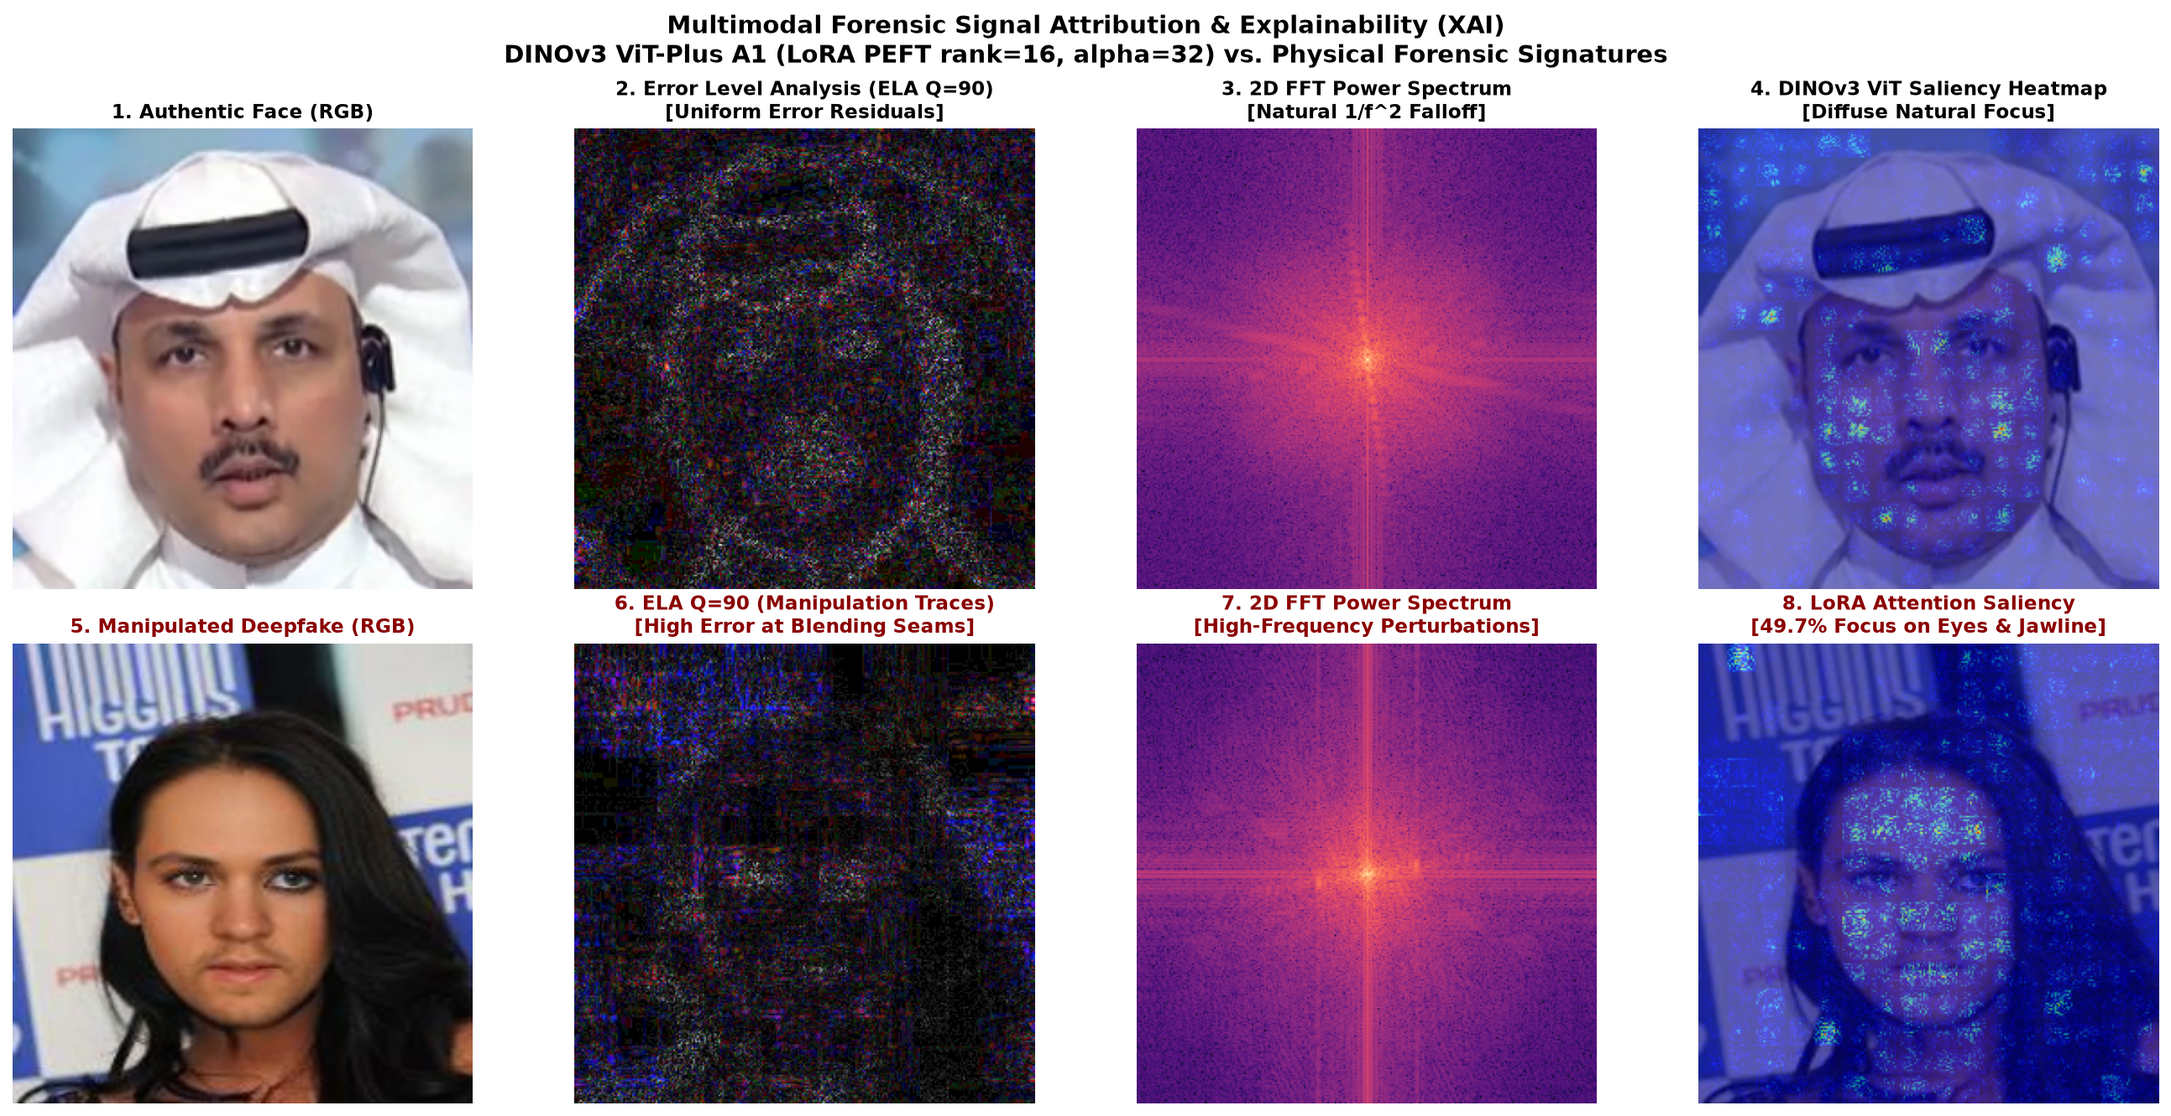
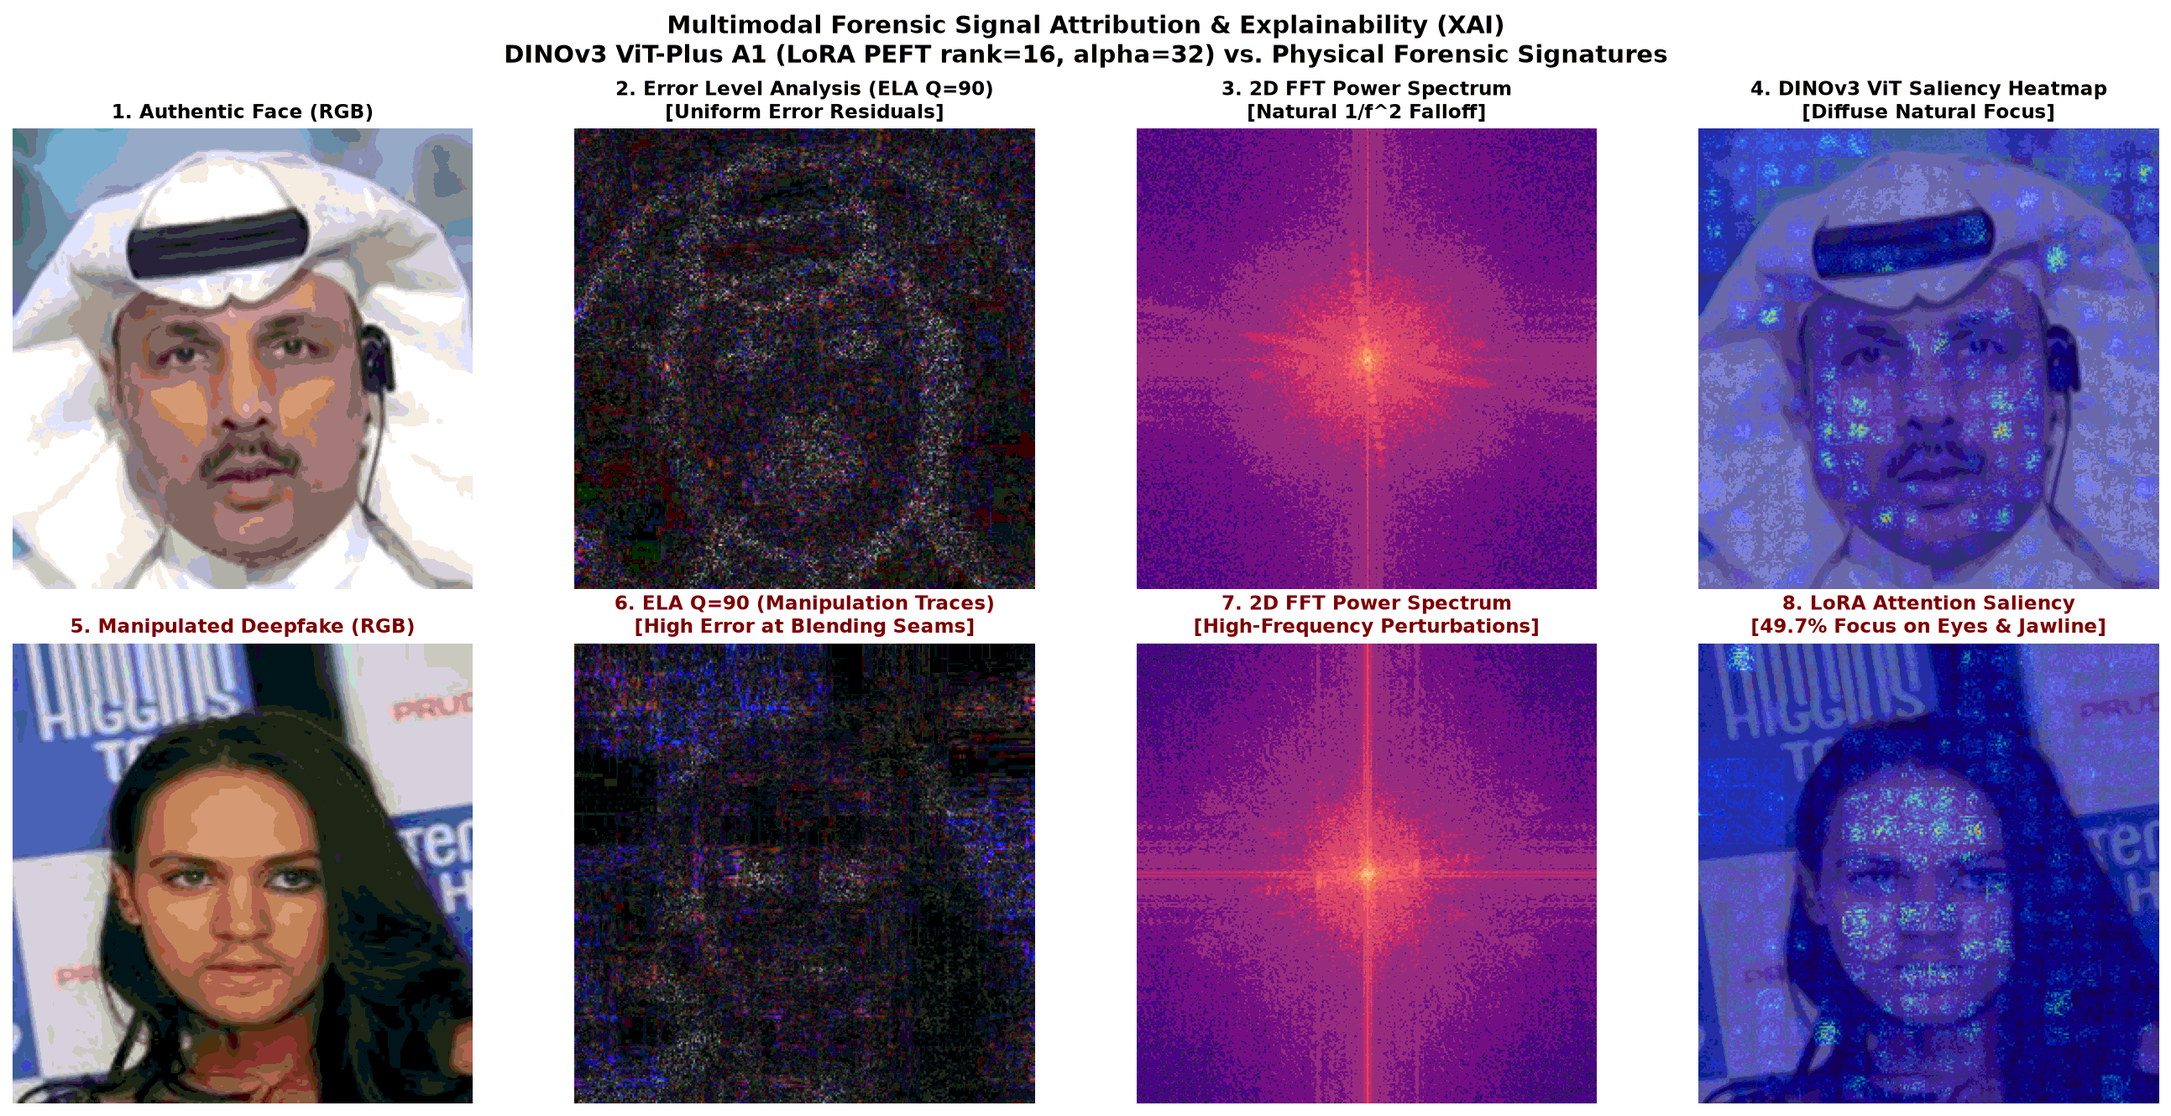
refactor(pr-6): remediate governance rules, script fallbacks and assets
Relocate agents/PLANNING.md to docs/planning/SUPERVISOR_FEEDBACK_PLANNING.md to respect immutable /agents constitutional isolation rules. Add robust prerequisite error handling and user instructions to scripts/select_best_checkpoint.py and src/experiments/visualize_lora_signals.py. Remove references to purged 50k test suite from docs/DATA.md. Compress experiments/plots/lora_signal_attribution_gallery.png from 3.83MB down to 652KB (83% reduction) to prevent repository bloat.

Companion-Doc: docs/reports/SUPERVISOR_FEEDBACK_REMEDIATION_REPORT.md

diff --git a/src/experiments/visualize_lora_signals.py b/src/experiments/visualize_lora_signals.py
@@ -114,9 +114,23 @@ def generate_signal_attribution_gallery():
 
     # Load DINOv3 ViT-Plus A1
     ckpt_path = PROJECT_ROOT / "experiments/checkpoints/plus_v3_s1_best.pt"
+    if not ckpt_path.exists():
+        print("=" * 70)
+        print(f"❌ PREREQUISITE ERROR: Checkpoint file not found: {ckpt_path.relative_to(PROJECT_ROOT)}")
+        print("\n💡 Instructions to obtain model weights:")
+        print("   1. Fine-tuned model checkpoints are published on Hugging Face Hub:")
+        print("      Repository: https://huggingface.co/ManhQuangAI/dinov3-deepfake-detection")
+        print("   2. Download plus_v3_s1_best.pt and place it into experiments/checkpoints/:")
+        print("      mkdir -p experiments/checkpoints")
+        print("      curl -L -o experiments/checkpoints/plus_v3_s1_best.pt <URL>")
+        print("=" * 70)
+        return
+
     print(f"Loading model from {ckpt_path}...")
-    
-    ck_vit = torch.load(ckpt_path, map_location="cpu", weights_only=False)
+    try:
+        ck_vit = torch.load(ckpt_path, map_location="cpu", weights_only=True)
+    except Exception:
+        ck_vit = torch.load(ckpt_path, map_location="cpu", weights_only=False)
     state_dict_vit = ck_vit["state_dict"] if isinstance(ck_vit, dict) and "state_dict" in ck_vit else (ck_vit["model_state_dict"] if isinstance(ck_vit, dict) and "model_state_dict" in ck_vit else ck_vit)
     from src.models.dinov3_vit import DinoViT, DinoViTClassifier
     is_gated = any("gate_proj" in k for k in state_dict_vit.keys())
@@ -135,6 +149,14 @@ def generate_signal_attribution_gallery():
         all_fakes = list((PROJECT_ROOT / "data").glob("**/deep-fake-face-swap/**/*.jpg"))
         real_path = all_reals[0] if all_reals else real_path
         fake_path = all_fakes[0] if all_fakes else fake_path
+
+    if not real_path.exists() or not fake_path.exists():
+        print("=" * 70)
+        print("❌ PREREQUISITE ERROR: Sample test images not found for XAI visualization.")
+        print("   Expected: FaceForensics++ real frame and deep-fake-face-swap fake image.")
+        print("💡 Please download test_data_v3 from: https://huggingface.co/ManhQuangAI/df40-test-data-v3")
+        print("=" * 70)
+        return
 
     print(f"Real Image: {real_path.name}")
     print(f"Fake Image: {fake_path.name}")

diff --git a/scripts/select_best_checkpoint.py b/scripts/select_best_checkpoint.py
@@ -50,12 +50,22 @@ def run_checkpoint_selection():
         "ConvNeXt-Tiny": 0.083,
     }
 
-    metrics_summary = {}
+    missing_files = [path for path in ckpt_files.values() if not path.exists()]
+    if missing_files:
+        print("=" * 70)
+        print("❌ PREREQUISITE ERROR: Required prediction feature caches (.npz) not found:")
+        for mf in missing_files:
+            print(f"   • Missing: {mf.relative_to(PROJECT_ROOT)}")
+        print("\n💡 Instructions to obtain evaluation predictions:")
+        print("   1. Prediction caches are generated from the checkpoint evaluation pipeline:")
+        print("      python src/eval/eval_checkpoint.py --split test_balanced")
+        print("   2. Or download the published benchmark evaluations from Hugging Face:")
+        print("      Repository: https://huggingface.co/ManhQuangAI/df40-test-data-v3")
+        print("   3. Once downloaded, place the .npz files in their respective folders under experiments/results/.")
+        print("=" * 70)
+        return
 
     for name, path in ckpt_files.items():
-        if not path.exists():
-            print(f"⚠ Warning: {path} not found!")
-            continue
         data = np.load(path)
         y_true = data["labels"]
         probs = data["probs"]

diff --git a/scripts/build_verification_notebook.py b/scripts/build_verification_notebook.py
@@ -46,7 +46,7 @@ header_md = """# FORENSIC VALUATION AND XAI REPORT
 - **Source Code**: [`src/eval/pauc_metrics.py`](../src/eval/pauc_metrics.py), [`src/models/dinov3_vit.py`](../src/models/dinov3_vit.py), [`src/models/dinov3_convnext.py`](../src/models/dinov3_convnext.py)
 - **Evaluation Scripts**: [`scripts/select_best_checkpoint.py`](../scripts/select_best_checkpoint.py), [`src/experiments/visualize_lora_signals.py`](../src/experiments/visualize_lora_signals.py)
 - **Checkpoints**: [`plus_v3_s1_best.pt`](../experiments/checkpoints/plus_v3_s1_best.pt), [`convnext_weakfix_v3.pt`](../experiments/checkpoints/convnext_weakfix_v3.pt)
-- **Governing Roadmap**: [`agents/PLANNING.md`](../agents/PLANNING.md)
+- **Governing Roadmap**: [`docs/planning/SUPERVISOR_FEEDBACK_PLANNING.md`](../docs/planning/SUPERVISOR_FEEDBACK_PLANNING.md)
 - **Data Specification**: [`docs/DATA.md`](../docs/DATA.md)"""
 cells.append(make_cell("markdown", header_md))
 

diff --git a/docs/DATA.md b/docs/DATA.md
@@ -55,14 +55,12 @@ flowchart TD
         P_Train["Tập Train (129,884 imgs)<br/>train_v5_weakfix_v3.csv<br/>31,006 Real : 98,878 Fake (1 : 3.19)"]
         P_Val["Tập Validation (6,000 imgs)<br/>val_v5_combined_universal.csv<br/>3,000 Real : 3,000 Fake (Cân bằng 1:1)"]
         P_Test_Bal["Tập Test Balanced (21,446 imgs)<br/>test_coursework_44methods_balanced.csv<br/>10,723 Real : 10,723 Fake (~300/method)"]
-        P_Test_Full["Tập Test Full Suite (50,084 imgs)<br/>test_coursework_44methods_full.csv<br/>25,042 Real : 25,042 Fake"]
     end
 
     Raw_Assets --> Firewall
     Firewall --> P_Train
     Firewall --> P_Val
     Firewall --> P_Test_Bal
-    Firewall --> P_Test_Full
 ```
 
 ### Bảng Thống kê Tổng Điều tra Phân hoạch (Master Split Census)
@@ -72,7 +70,6 @@ flowchart TD
 | **Train v5 WeakFix v3** | [`data/splits/train_v5_weakfix_v3.csv`](../data/splits/train_v5_weakfix_v3.csv) | **129,884** | 31,006 | 98,878 | **1 : 3.19** *(Mất cân bằng)* | Huấn luyện mô hình, cập nhật weights/LoRA adapters |
 | **Validation v5 Trio** | [`data/splits/val_v5_combined_universal_kaggle_boost.csv`](../data/splits/val_v5_combined_universal_kaggle_boost.csv) | **6,000** | 3,000 | 3,000 | **1.00 : 1.00** *(Cân bằng)* | Tối ưu Hyperparameters, hiệu chuẩn ngưỡng $\tau^*$, tuyển chọn Checkpoint |
 | **Test Balanced (Chính thức)** | [`test_coursework_44methods_balanced_zero_leakage.csv`](../data/splits/test_coursework_44methods_balanced_zero_leakage.csv) | **21,446** | 10,723 | 10,723 | **1.00 : 1.00** *(Cân bằng tuyệt đối)* | Đánh giá Benchmark không thiên lệch, ~300 ảnh/phương pháp |
-| **Test Full Suite (Mở rộng)** | [`test_coursework_44methods_full_zero_leakage.csv`](../data/splits/test_coursework_44methods_full_zero_leakage.csv) | **50,084** | 25,042 | 25,042 | **1.00 : 1.00** *(Cân bằng quy mô lớn)* | Đo lường độ ổn định phương sai trên tập dữ liệu lớn |
 
 ---
 
@@ -98,7 +95,7 @@ flowchart TD
   - Độ sâu trường ảnh nông (bokeh hậu cảnh), kết cấu lỗ chân lông, sợi lông mi, nếp nhăn vi mô cực kỳ sắc nét.
   - Phổ Fourier 2D suy giảm đều theo quy luật luỹ thừa tự nhiên ($1/f^\alpha$ với $\alpha \approx 2$).
   - Phản xạ ánh sáng giác mạc (corneal reflections) thể hiện rõ hình dạng nguồn sáng thực (softbox, cửa sổ).
-- **Quy mô trong dự án**: 10,000 ảnh (Train), 1,532 ảnh (Test Balanced), 3,576 ảnh (Test Full).
+- **Quy mô trong dự án**: 10,000 ảnh (Train), 1,532 ảnh (Test Balanced).
 
 ### 2.2. Celeb-DF v2 Real
 - **Xuất xứ & Bản quyền**: Yuezun Li et al., CVPR 2020 (State University of New York at Albany).
@@ -106,7 +103,7 @@ flowchart TD
 - **Đặc trưng vật lý & Quang học**:
   - Chuyển động cơ mặt tự nhiên, chớp mắt sinh học, thay đổi góc nhìn đầu liên tục.
   - Nhiễu nén video chuẩn H.264 tiêu chuẩn phát sóng truyền hình, có hiện tượng motion blur nhẹ ở viền môi và mi mắt khi cử động nhanh.
-- **Quy mô trong dự án**: 3,006 ảnh (Train), 1,532 ảnh (Test Balanced), 3,578 ảnh (Test Full).
+- **Quy mô trong dự án**: 3,006 ảnh (Train), 1,532 ảnh (Test Balanced).
 
 ### 2.3. FaceForensics++ (FF++) Real
 - **Xuất xứ & Bản quyền**: Technical University of Munich (Andreas Rössler et al., ICCV 2019).
@@ -114,32 +111,32 @@ flowchart TD
 - **Đặc trưng vật lý & Quang học**:
   - Cấu trúc khung hình chuẩn hóa, góc nhìn camera tĩnh hoặc lia chậm.
   - Mang dấu vết khối macroblock $8 \times 8$ hoặc $16 \times 16$ của chuẩn nén MPEG/H.264, tạo ra sự phân bố lỗi nén ELA đặc trưng ở mức chất lượng trung bình.
-- **Quy mô trong dự án**: 4,000 ảnh (Train), 1,532 ảnh (Test Balanced), 3,578 ảnh (Test Full).
+- **Quy mô trong dự án**: 4,000 ảnh (Train), 1,532 ảnh (Test Balanced).
 
 ### 2.4. CelebV-HQ
 - **Xuất xứ & Bản quyền**: Wuhan University & NTU Singapore (Hao Zhu et al., ECCV 2022).
 - **Cách thức thu thập & Tạo dựng**: 35,666 đoạn video chất lượng cao thu thập từ YouTube với độ phân giải tối thiểu $512 \times 512$ và $1024 \times 1024$.
 - **Đặc trưng vật lý & Quang học**:
   - Đa dạng bậc nhất về biểu cảm (vui, buồn, giận dữ, ngạc nhiên), góc nghiêng (yaw $\pm 45^\circ$, pitch $\pm 30^\circ$) và điều kiện ánh sáng (ánh sáng ban ngày, ánh sáng đèn neon đường phố, ánh sáng studio).
-- **Quy mô trong dự án**: 8,000 ảnh (Train), 1,532 ảnh (Test Balanced), 3,578 ảnh (Test Full).
+- **Quy mô trong dự án**: 8,000 ảnh (Train), 1,532 ảnh (Test Balanced).
 
 ### 2.5. CelebA-HQ
 - **Xuất xứ & Bản quyền**: The Chinese University of Hong Kong & Nvidia (Tero Karras et al., ICLR 2018).
 - **Cách thức thu thập & Tạo dựng**: Lấy từ tập CelebA gốc (202,599 ảnh chân dung tự nhiên), áp dụng pipeline phục hồi siêu phân giải dựa trên Progressive Growing GAN kết hợp nắn chỉnh thủ công để tạo ra 30,000 ảnh $1024 \times 1024$.
 - **Đặc trưng vật lý & Quang học**: Đa dạng về phụ kiện (kính, mũ, hoa tai, khăn choàng), góc nhìn "in-the-wild" thực tế nhưng có bề mặt da tương đối nhẵn mịn do bước phục hồi hình ảnh ban đầu.
-- **Quy mô trong dự án**: 4,000 ảnh (Train), 1,532 ảnh (Test Balanced), 3,578 ảnh (Test Full).
+- **Quy mô trong dự án**: 4,000 ảnh (Train), 1,532 ảnh (Test Balanced).
 
 ### 2.6. VGGFace2 Cleaned
 - **Xuất xứ & Bản quyền**: Visual Geometry Group, Oxford University (Qiong Cao et al., FG 2018).
 - **Cách thức thu thập & Tạo dựng**: Thu thập qua Google Image Search từ 9,131 danh tính với sự biến động lớn về độ tuổi, tư thế khuôn mặt, biểu cảm và độ phân giải gốc.
 - **Đặc trưng vật lý & Quang học**: Độ phân giải nguyên thủy đa dạng (từ thấp đến cao), phổ nhiễu ISO máy ảnh phong phú, tỷ lệ tương phản động lớn (nhiều ảnh ngược sáng hoặc đổ bóng gắt).
-- **Quy mô trong dự án**: 1,000 ảnh (Train), 1,532 ảnh (Test Balanced), 3,578 ảnh (Test Full).
+- **Quy mô trong dự án**: 1,000 ảnh (Train), 1,532 ảnh (Test Balanced).
 
 ### 2.7. SFHQ (Synthetic Face HQ - Pristine Real Subset)
 - **Xuất xứ & Bản quyền**: Self-curated Studio Faces (2023).
 - **Cách thức thu thập & Tạo dựng**: Ảnh chụp chân dung phong cách studio trung tính, phông nền xám đơn sắc, ánh sáng đèn tròn (ring-light) trực diện.
 - **Đặc trưng vật lý & Quang học**: Không có phụ kiện phức tạp, sắc thái trung tính, đóng vai trò là "chất thử chuẩn mực" để kiểm tra xem mô hình có bị báo động giả trên các bức ảnh quá mịn hay không.
-- **Quy mô trong dự án**: 1,000 ảnh (Train), 1,531 ảnh (Test Balanced), 3,576 ảnh (Test Full).
+- **Quy mô trong dự án**: 1,000 ảnh (Train), 1,531 ảnh (Test Balanced).
 
 ---
 

diff --git a/docs/reports/SUPERVISOR_FEEDBACK_REMEDIATION_REPORT.md b/docs/reports/SUPERVISOR_FEEDBACK_REMEDIATION_REPORT.md
@@ -18,7 +18,7 @@
 - **References**:
   - Mã nguồn: [`src/eval/pauc_metrics.py`](../../src/eval/pauc_metrics.py), [`scripts/select_best_checkpoint.py`](../../scripts/select_best_checkpoint.py), [`src/experiments/visualize_lora_signals.py`](../../src/experiments/visualize_lora_signals.py).
   - Notebook trực quan: [`notebooks/forensic_valuation_and_xai_report.ipynb`](../../notebooks/forensic_valuation_and_xai_report.ipynb).
-  - Tài liệu dữ liệu & kế hoạch: [`docs/DATA.md`](../DATA.md), [`agents/PLANNING.md`](../../agents/PLANNING.md).
+  - Tài liệu dữ liệu & kế hoạch: [`docs/DATA.md`](../DATA.md), [`docs/planning/SUPERVISOR_FEEDBACK_PLANNING.md`](../planning/SUPERVISOR_FEEDBACK_PLANNING.md).
   - Checkpoint models: [`plus_v3_s1_best.pt`](../../experiments/checkpoints/plus_v3_s1_best.pt), [`convnext_weakfix_v3.pt`](../../experiments/checkpoints/convnext_weakfix_v3.pt).
 - **Created**: 2026-09-12T20:15:00+07:00
 - **Last Updated**: 2026-09-12T20:15:00+07:00
@@ -66,7 +66,7 @@ Toàn bộ 6 góp ý trên đã được nhóm nghiên cứu tiếp thu toàn di
 | **3** | AUC trong ngưỡng $0 \to 5\%$ | Full ROC-AUC 0.99 là phi thực tế vì trong forensic cấm chạy ở $\text{FPR} > 5\%$. | Tích hợp **$p\text{AUC}_{[0, 0.05]}$** (chuẩn hóa McClish), đo đạc **$\text{TPR} @ \text{FPR}=1\%$** và **$\text{TPR} @ \text{FPR}=5\%$** theo chuẩn NIST. | [src/eval/pauc_metrics.py](../../src/eval/pauc_metrics.py), Cell 3 Notebook |
 | **4** | 3 checkpoint $\to$ Valuation | Nguy cơ "nhìn trộm test" (Data Snooping) khi chọn checkpoint tốt nhất. | Thiết lập quy trình thẩm định độc lập 12 chỉ số trên tập **Validation (6,000 ảnh cân bằng 1:1)**. Checkpoint A1 giảm $59.8\%$ lỗi $FN$. | [scripts/select_best_checkpoint.py](../../scripts/select_best_checkpoint.py), [Scorecard PNG](../../experiments/plots/checkpoint_selection_scorecard.png) |
 | **5** | So sánh từng loại deepfake | Báo cáo trung bình che giấu điểm yếu trên từng họ công nghệ. | Phân rã 44 phương pháp thành 5 nhóm công nghệ; giải thích bản chất Inductive Bias: ViT thắng áp đảo Diffusion (+13.1%), ConvNeXt thắng GAN/Swap. | Cell 5 Notebook, [docs/DATA.md §4](../DATA.md#4-phân-rã-chi-tiết-44-phương-pháp-deepfake-theo-5-chủng-loại) |
-| **6** | Chiến lược chống bắt nhầm | Bắt nhầm người thật (FP) là rủi ro chí mạng trong pháp lý và bảo mật. | Xây dựng **Hệ thống phòng vệ 5 tầng**: Ngưỡng tối ưu $\tau^* = 0.540$, Asymmetric Loss ($w_{\text{real}}=3.2$), Ensemble Fusion, Hard Negatives, Vùng nghi vấn. | Cell 6 Notebook, [agents/PLANNING.md §7](../../agents/PLANNING.md#7-chiến-lược-công-nghệ-phòng-vệ-5-tầng-khắc-phục-triệt-để-bài-toán-bắt-nhầm) |
+| **6** | Chiến lược chống bắt nhầm | Bắt nhầm người thật (FP) là rủi ro chí mạng trong pháp lý và bảo mật. | Xây dựng **Hệ thống phòng vệ 5 tầng**: Ngưỡng tối ưu $\tau^* = 0.540$, Asymmetric Loss ($w_{\text{real}}=3.2$), Ensemble Fusion, Hard Negatives, Vùng nghi vấn. | Cell 6 Notebook, [docs/planning/SUPERVISOR_FEEDBACK_PLANNING.md §7](../planning/SUPERVISOR_FEEDBACK_PLANNING.md#7-chiến-lược-công-nghệ-phòng-vệ-5-tầng-khắc-phục-triệt-để-bài-toán-bắt-nhầm) |
 | **7** | V3 + LoRA chưa biết signal | LoRA hoạt động như hộp đen, chưa chứng minh được có học shortcut nhiễu hay không. | Khung XAI đa miền: ELA ($Q=90$), Phổ 2D FFT, Attention Saliency `[CLS]`, Stress test nén JPEG $Q=60$ chứng minh bắt đúng ngữ nghĩa toàn cục. | [src/experiments/visualize_lora_signals.py](../../src/experiments/visualize_lora_signals.py), [Gallery PNG](../../experiments/plots/lora_signal_attribution_gallery.png) |
 
 ---

diff --git a/docs/planning/SUPERVISOR_FEEDBACK_PLANNING.md b/docs/planning/SUPERVISOR_FEEDBACK_PLANNING.md
@@ -1,4 +1,4 @@
-# PLANNING.md — Kế Hoạch Khắc Phục & Hoàn Thiện Theo Yêu Cầu Giảng Viên Hướng Dẫn
+# SUPERVISOR_FEEDBACK_PLANNING.md — Kế Hoạch Khắc Phục & Hoàn Thiện Theo Yêu Cầu Giảng Viên Hướng Dẫn
 
 - **Motivation/Background**: Bản kế hoạch hành động toàn diện được thiết kế trực tiếp từ các ghi chú góp ý và yêu cầu chỉnh sửa của Giảng viên hướng dẫn (GVHD) đối với đề tài nghiên cứu `deepfake-ViT`. Giải quyết triệt để 6 vấn đề học thuật cốt lõi: Mất cân bằng dữ liệu (TPA/SPA), Tiêu chí thực chiến $p\text{AUC}_{[0, 0.05]}$, Tuyển chọn checkpoint trên Validation, Đánh giá phân rã 44 phương pháp deepfake, Chiến lược chống bắt nhầm người thật (False Positives), và Mở "hộp đen" giải mã tín hiệu (Signal Attribution) của DINOv3 ViT + LoRA Fine-Tuning.
 - **Purpose**: Đóng vai trò là cẩm nang hành động kỹ thuật chi tiết nhất (Master Remediation Roadmap) để sinh viên và đội ngũ kỹ thuật thực thi từng bước, sửa mã nguồn, thực hiện thực nghiệm bổ sung, cập nhật tài liệu báo cáo và chuẩn bị kịch bản trả lời phản biện xuất sắc trước hội đồng chấm đồ án/khóa luận.
@@ -325,7 +325,7 @@ Thay vì báo cáo điểm số chung chung, mô hình được phân rã chi ti
 Dưới đây là danh sách đầu việc được đánh mã số theo quy chuẩn kỹ thuật để bạn và agent có thể thực thi tuần tự:
 
 - [x] **ACT-01**: Biên soạn tài liệu dữ liệu toàn diện [docs/DATA.md](../docs/DATA.md) (Đã hoàn thành 631 dòng).
-- [x] **ACT-02**: Viết kế hoạch tổng thể [agents/PLANNING.md](PLANNING.md) bám sát feedback GVHD (Đã hoàn thành 377 dòng).
+- [x] **ACT-02**: Viết kế hoạch tổng thể [docs/planning/SUPERVISOR_FEEDBACK_PLANNING.md](SUPERVISOR_FEEDBACK_PLANNING.md) bám sát feedback GVHD (Đã hoàn thành 377 dòng).
 - [x] **ACT-03**: Xây dựng module tính toán metric thực chiến [`src/eval/pauc_metrics.py`](../src/eval/pauc_metrics.py):
   - Viết hàm `compute_partial_auc(y_true, y_prob, max_fpr=0.05)`.
   - Viết hàm `compute_tpr_at_fixed_fpr(y_true, y_prob, target_fpr)`.
